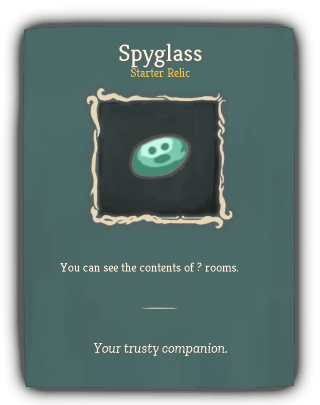
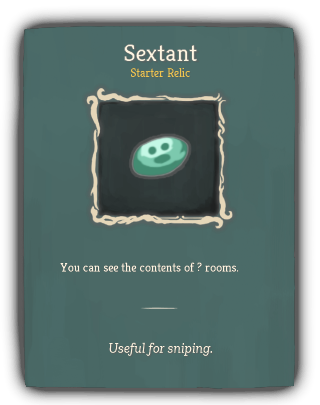
changes!
fixes

Changed region(s): [[0.2812, 0.8296, 0.7188, 0.8889], [0.375, 0.0889, 0.625, 0.1778]]

diff --git a/sleuthMod/index.html b/sleuthMod/index.html
@@ -138,8 +138,9 @@ Deal 12(15) damage.</td>
     <td>1</td>
     <td>Imagination 5.
 Deal 6 damage.
-Shift the enemy's intent ahead 1 turn. 
-(Retain.)</td>
+Shift the enemy's intent ahead 1 turn.
+(Retain.)
+ Exhaust.</td>
   </tr>
   
   <tr>
@@ -646,9 +647,9 @@ Lose 1 Strength if you cannot pay.</td>
   </tr>
   
   <tr>
-    <td>Candy Corn Vampire Form</td>
-    <td><a href="card-images/CandyCornVampireForm.png"><img src="small-card-images/CandyCornVampireForm.png" height="298"></a></td>
-    <td><a href="card-images/CandyCornVampireFormPlus.png"><img src="small-card-images/CandyCornVampireFormPlus.png" height="298"></a></td>
+    <td>Candy Corn Vampire</td>
+    <td><a href="card-images/CandyCornVampire.png"><img src="small-card-images/CandyCornVampire.png" height="298"></a></td>
+    <td><a href="card-images/CandyCornVampirePlus.png"><img src="small-card-images/CandyCornVampirePlus.png" height="298"></a></td>
     <td>Rare</td>
     <td>Power</td>
     <td>2(1)</td>
@@ -696,9 +697,9 @@ The first non-Purge card you play each turn puts a copy of itself on top of your
   </tr>
   
   <tr>
-    <td>Gummy Worm Zombie Form</td>
-    <td><a href="card-images/GummyWormZombieForm.png"><img src="small-card-images/GummyWormZombieForm.png" height="298"></a></td>
-    <td><a href="card-images/GummyWormZombieFormPlus.png"><img src="small-card-images/GummyWormZombieFormPlus.png" height="298"></a></td>
+    <td>Gummy Worm Zombie</td>
+    <td><a href="card-images/GummyWormZombie.png"><img src="small-card-images/GummyWormZombie.png" height="298"></a></td>
+    <td><a href="card-images/GummyWormZombiePlus.png"><img src="small-card-images/GummyWormZombiePlus.png" height="298"></a></td>
     <td>Rare</td>
     <td>Power</td>
     <td>2(1)</td>
@@ -764,8 +765,6 @@ Lose 5 Imagination.</td>
     <td>1</td>
     <td>Pulchritude 16.
 Costs 1 more for every 2 cards in your draw pile.
-Cost can not be modified by other means.
-(not Cost can not be modified by other means.)
 Add a (an upgraded) Jigsaw into your hand.</td>
   </tr>
   
@@ -797,12 +796,12 @@ Add a (an upgraded) Jigsaw into your hand.</td>
   </tr>
   
   <tr>
-    <td><a href="relics/popup/theSleuth-Spyglass.png">Spyglass</a></td>
+    <td><a href="relics/popup/theSleuth-Spyglass.png">Sextant</a></td>
     <td><img src="relics/theSleuth-Spyglass.png" width="128" height="128"><a href="relics/popup/theSleuth-Spyglass.png"><img src="relics/small-popup/theSleuth-Spyglass.png" class="popup"></a></td>
     <td>Starter</td>
     <td>Sleuth_gray_color</td>
     <td>You can see the contents of ? rooms.</td>
-    <td>Your trusty companion.</td>
+    <td>Useful for sniping.</td>
   </tr>
   
 </table>

diff --git a/sleuthMod/cards.html b/sleuthMod/cards.html
@@ -137,8 +137,9 @@ Deal 12(15) damage.</td>
     <td>1</td>
     <td>Imagination 5.
 Deal 6 damage.
-Shift the enemy's intent ahead 1 turn. 
-(Retain.)</td>
+Shift the enemy's intent ahead 1 turn.
+(Retain.)
+ Exhaust.</td>
   </tr>
   
   <tr>
@@ -645,9 +646,9 @@ Lose 1 Strength if you cannot pay.</td>
   </tr>
   
   <tr>
-    <td>Candy Corn Vampire Form</td>
-    <td><a href="card-images/CandyCornVampireForm.png"><img src="small-card-images/CandyCornVampireForm.png" height="298"></a></td>
-    <td><a href="card-images/CandyCornVampireFormPlus.png"><img src="small-card-images/CandyCornVampireFormPlus.png" height="298"></a></td>
+    <td>Candy Corn Vampire</td>
+    <td><a href="card-images/CandyCornVampire.png"><img src="small-card-images/CandyCornVampire.png" height="298"></a></td>
+    <td><a href="card-images/CandyCornVampirePlus.png"><img src="small-card-images/CandyCornVampirePlus.png" height="298"></a></td>
     <td>Rare</td>
     <td>Power</td>
     <td>2(1)</td>
@@ -695,9 +696,9 @@ The first non-Purge card you play each turn puts a copy of itself on top of your
   </tr>
   
   <tr>
-    <td>Gummy Worm Zombie Form</td>
-    <td><a href="card-images/GummyWormZombieForm.png"><img src="small-card-images/GummyWormZombieForm.png" height="298"></a></td>
-    <td><a href="card-images/GummyWormZombieFormPlus.png"><img src="small-card-images/GummyWormZombieFormPlus.png" height="298"></a></td>
+    <td>Gummy Worm Zombie</td>
+    <td><a href="card-images/GummyWormZombie.png"><img src="small-card-images/GummyWormZombie.png" height="298"></a></td>
+    <td><a href="card-images/GummyWormZombiePlus.png"><img src="small-card-images/GummyWormZombiePlus.png" height="298"></a></td>
     <td>Rare</td>
     <td>Power</td>
     <td>2(1)</td>
@@ -763,8 +764,6 @@ Lose 5 Imagination.</td>
     <td>1</td>
     <td>Pulchritude 16.
 Costs 1 more for every 2 cards in your draw pile.
-Cost can not be modified by other means.
-(not Cost can not be modified by other means.)
 Add a (an upgraded) Jigsaw into your hand.</td>
   </tr>
   

diff --git a/sleuthMod/relics.html b/sleuthMod/relics.html
@@ -30,12 +30,12 @@
   </tr>
   
   <tr>
-    <td><a href="relics/popup/theSleuth-Spyglass.png">Spyglass</a></td>
+    <td><a href="relics/popup/theSleuth-Spyglass.png">Sextant</a></td>
     <td><img src="relics/theSleuth-Spyglass.png" width="128" height="128"><a href="relics/popup/theSleuth-Spyglass.png"><img src="relics/small-popup/theSleuth-Spyglass.png" class="popup"></a></td>
     <td>Starter</td>
     <td>Sleuth_gray_color</td>
     <td>You can see the contents of ? rooms.</td>
-    <td>Your trusty companion.</td>
+    <td>Useful for sniping.</td>
   </tr>
   
 </table>

diff --git a/sleuthMod/index.md b/sleuthMod/index.md
@@ -13,7 +13,7 @@
 | Belly O' The Whale | ![](small-card-images/BellyOTheWhale.png) | ![](small-card-images/BellyOTheWhalePlus.png) | Common | Attack | 1 | Vim 10. Deal 10(12) damage. Exhaust a random (not random)card in your discard pile. |
 | Candy Corn | ![](small-card-images/CandyCorn.png) | ![](small-card-images/CandyCornPlus.png) | Common | Skill | 1 | If this is in your hand at the end of your turn, gain 3(5) Block. |
 | Charisma Blast | ![](small-card-images/CharismaBlast.png) | ![](small-card-images/CharismaBlastPlus.png) | Common | Attack | 1 | Pulchritude 12. Deal 12(15) damage. |
-| Disconcerting Ogle | ![](small-card-images/DisconcertingOgle.png) | ![](small-card-images/DisconcertingOglePlus.png) | Common | Attack | 1 | Imagination 5. Deal 6 damage. Shift the enemy's intent ahead 1 turn.  (Retain.) |
+| Disconcerting Ogle | ![](small-card-images/DisconcertingOgle.png) | ![](small-card-images/DisconcertingOglePlus.png) | Common | Attack | 1 | Imagination 5. Deal 6 damage. Shift the enemy's intent ahead 1 turn. (Retain.)  Exhaust. |
 | Flask of Whiskey | ![](small-card-images/FlaskofWhiskey.png) | ![](small-card-images/FlaskofWhiskeyPlus.png) | Common | Skill | 1 | Imagination 5. Gain 1 Imagination. Give a random (not random)card in your hand Retain for the rest of combat. Purge. |
 | Flesh Mural | ![](small-card-images/FleshMural.png) | ![](small-card-images/FleshMuralPlus.png) | Common | Skill | 1 | Vim 5. Gain 8 Temporary HP. Shuffle a Wound (Mural) into your draw pile. |
 | Fortify | ![](small-card-images/Fortify.png) | ![](small-card-images/FortifyPlus.png) | Common | Skill | 1 | Gain 4(5) Temporary Imagination. Gain 5(7) Block. Put a card from your hand on top of your draw pile. |
@@ -55,16 +55,16 @@
 | Brass Tacks | ![](small-card-images/BrassTacks.png) | ![](small-card-images/BrassTacksPlus.png) | Rare | Attack | 2 | Pulchritude 15. Deal 14(17) damage to ALL enemies. Discard your hand, then draw that many cards. |
 | Burn Fat | ![](small-card-images/BurnFat.png) | ![](small-card-images/BurnFatPlus.png) | Rare | Skill | X | Lose X Vim. Gain 4(5) Temporary HP for each Vim lost. |
 | Candid Bullets | ![](small-card-images/CandidBullets.png) | ![](small-card-images/CandidBulletsPlus.png) | Rare | Power | 2(1) | Imagination 5. Gain 3 Strength. Whenever you play an Attack, lose 1 Imagination. Lose 1 Strength if you cannot pay. |
-| Candy Corn Vampire Form | ![](small-card-images/CandyCornVampireForm.png) | ![](small-card-images/CandyCornVampireFormPlus.png) | Rare | Power | 2(1) | Pulchritude 15. Imagination 15. Gain 5 Malleable. You cannot gain Malleable for the rest of the combat. |
+| Candy Corn Vampire | ![](small-card-images/CandyCornVampire.png) | ![](small-card-images/CandyCornVampirePlus.png) | Rare | Power | 2(1) | Pulchritude 15. Imagination 15. Gain 5 Malleable. You cannot gain Malleable for the rest of the combat. |
 | Candy Mech | ![](small-card-images/CandyMech.png) | ![](small-card-images/CandyMechPlus.png) | Rare | Attack | 2 | Imagination 15. Gain 15(17) Block. Deal 15(17) damage. Lose 3(2) Imagination. |
 | Ceasefire | ![](small-card-images/Ceasefire.png) | ![](small-card-images/CeasefirePlus.png) | Rare | Power | 2 | Pulchritude 15. You and ALL enemies gain 2 Intangible. You cannot gain Intangible for the rest of the combat.  (Retain.) |
 | Double Take | ![](small-card-images/DoubleTake.png) | ![](small-card-images/DoubleTakePlus.png) | Rare | Power | 2(1) | Imagination 13. The first non-Purge card you play each turn puts a copy of itself on top of your draw pile. |
-| Gummy Worm Zombie Form | ![](small-card-images/GummyWormZombieForm.png) | ![](small-card-images/GummyWormZombieFormPlus.png) | Rare | Power | 2(1) | Pulchritude 15. Vim 15. At the end of your turn, gain 1 Block for each card in your hand. |
+| Gummy Worm Zombie | ![](small-card-images/GummyWormZombie.png) | ![](small-card-images/GummyWormZombiePlus.png) | Rare | Power | 2(1) | Pulchritude 15. Vim 15. At the end of your turn, gain 1 Block for each card in your hand. |
 | Hairpin/Machinegun | ![](small-card-images/HairpinMachinegun.png) | ![](small-card-images/HairpinMachinegunPlus.png) | Rare | Attack | 1 | Gain 15(18) Block / Deal 15(18) damage. Switches form whenever played. |
 | Roll Boxcars | ![](small-card-images/RollBoxcars.png) | ![](small-card-images/RollBoxcarsPlus.png) | Rare | Skill | 1(0) | Add any 1 of the 4 Midnight Cards to your hand. Exhaust. |
 | Successful Parry | ![](small-card-images/SuccessfulParry.png) | ![](small-card-images/SuccessfulParryPlus.png) | Rare | Skill | 3(2) | Vim 1. You cannot have Block this turn. Gain Temporary HP equal to your Vim. Gain 1 Auto-Parry. Purge. |
 | The Zillyhammer | ![](small-card-images/TheZillyhammer.png) | ![](small-card-images/TheZillyhammerPlus.png) | Rare | Attack | 2 | Imagination 20. Deal 25(33) damage to ALL enemies. Lose 5 Imagination. |
-| Weird Puzzle Shit | ![](small-card-images/WeirdPuzzleShit.png) | ![](small-card-images/WeirdPuzzleShitPlus.png) | Rare | Skill | 1 | Pulchritude 16. Costs 1 more for every 2 cards in your draw pile. Cost can not be modified by other means. (not Cost can not be modified by other means.) Add a (an upgraded) Jigsaw into your hand. |
+| Weird Puzzle Shit | ![](small-card-images/WeirdPuzzleShit.png) | ![](small-card-images/WeirdPuzzleShitPlus.png) | Rare | Skill | 1 | Pulchritude 16. Costs 1 more for every 2 cards in your draw pile. Add a (an upgraded) Jigsaw into your hand. |
 
 
 
@@ -84,7 +84,7 @@
 | Image | Name | Rarity | Color | Description | Flavor |
 | ----- | ---- | ------ | ----- | ----------- | ------ |
 | ![](relics/theSleuth-PenAndPaper.png) | Pen and Paper | Starter | Sleuth_gray_color | Stores your statistics. NL #yPulchritude: #b0 NL #yVim: #b0 NL #yImagination: #b0 | For statistical purposes. |
-| ![](relics/theSleuth-Spyglass.png) | Spyglass | Starter | Sleuth_gray_color | You can see the contents of ? rooms. | Your trusty companion. |
+| ![](relics/theSleuth-Spyglass.png) | Sextant | Starter | Sleuth_gray_color | You can see the contents of ? rooms. | Useful for sniping. |
 
 
 

diff --git a/sleuthMod/cards.md b/sleuthMod/cards.md
@@ -10,7 +10,7 @@
 | Belly O' The Whale | ![](small-card-images/BellyOTheWhale.png) | ![](small-card-images/BellyOTheWhalePlus.png) | Common | Attack | 1 | Vim 10. Deal 10(12) damage. Exhaust a random (not random)card in your discard pile. |
 | Candy Corn | ![](small-card-images/CandyCorn.png) | ![](small-card-images/CandyCornPlus.png) | Common | Skill | 1 | If this is in your hand at the end of your turn, gain 3(5) Block. |
 | Charisma Blast | ![](small-card-images/CharismaBlast.png) | ![](small-card-images/CharismaBlastPlus.png) | Common | Attack | 1 | Pulchritude 12. Deal 12(15) damage. |
-| Disconcerting Ogle | ![](small-card-images/DisconcertingOgle.png) | ![](small-card-images/DisconcertingOglePlus.png) | Common | Attack | 1 | Imagination 5. Deal 6 damage. Shift the enemy's intent ahead 1 turn.  (Retain.) |
+| Disconcerting Ogle | ![](small-card-images/DisconcertingOgle.png) | ![](small-card-images/DisconcertingOglePlus.png) | Common | Attack | 1 | Imagination 5. Deal 6 damage. Shift the enemy's intent ahead 1 turn. (Retain.)  Exhaust. |
 | Flask of Whiskey | ![](small-card-images/FlaskofWhiskey.png) | ![](small-card-images/FlaskofWhiskeyPlus.png) | Common | Skill | 1 | Imagination 5. Gain 1 Imagination. Give a random (not random)card in your hand Retain for the rest of combat. Purge. |
 | Flesh Mural | ![](small-card-images/FleshMural.png) | ![](small-card-images/FleshMuralPlus.png) | Common | Skill | 1 | Vim 5. Gain 8 Temporary HP. Shuffle a Wound (Mural) into your draw pile. |
 | Fortify | ![](small-card-images/Fortify.png) | ![](small-card-images/FortifyPlus.png) | Common | Skill | 1 | Gain 4(5) Temporary Imagination. Gain 5(7) Block. Put a card from your hand on top of your draw pile. |
@@ -52,13 +52,13 @@
 | Brass Tacks | ![](small-card-images/BrassTacks.png) | ![](small-card-images/BrassTacksPlus.png) | Rare | Attack | 2 | Pulchritude 15. Deal 14(17) damage to ALL enemies. Discard your hand, then draw that many cards. |
 | Burn Fat | ![](small-card-images/BurnFat.png) | ![](small-card-images/BurnFatPlus.png) | Rare | Skill | X | Lose X Vim. Gain 4(5) Temporary HP for each Vim lost. |
 | Candid Bullets | ![](small-card-images/CandidBullets.png) | ![](small-card-images/CandidBulletsPlus.png) | Rare | Power | 2(1) | Imagination 5. Gain 3 Strength. Whenever you play an Attack, lose 1 Imagination. Lose 1 Strength if you cannot pay. |
-| Candy Corn Vampire Form | ![](small-card-images/CandyCornVampireForm.png) | ![](small-card-images/CandyCornVampireFormPlus.png) | Rare | Power | 2(1) | Pulchritude 15. Imagination 15. Gain 5 Malleable. You cannot gain Malleable for the rest of the combat. |
+| Candy Corn Vampire | ![](small-card-images/CandyCornVampire.png) | ![](small-card-images/CandyCornVampirePlus.png) | Rare | Power | 2(1) | Pulchritude 15. Imagination 15. Gain 5 Malleable. You cannot gain Malleable for the rest of the combat. |
 | Candy Mech | ![](small-card-images/CandyMech.png) | ![](small-card-images/CandyMechPlus.png) | Rare | Attack | 2 | Imagination 15. Gain 15(17) Block. Deal 15(17) damage. Lose 3(2) Imagination. |
 | Ceasefire | ![](small-card-images/Ceasefire.png) | ![](small-card-images/CeasefirePlus.png) | Rare | Power | 2 | Pulchritude 15. You and ALL enemies gain 2 Intangible. You cannot gain Intangible for the rest of the combat.  (Retain.) |
 | Double Take | ![](small-card-images/DoubleTake.png) | ![](small-card-images/DoubleTakePlus.png) | Rare | Power | 2(1) | Imagination 13. The first non-Purge card you play each turn puts a copy of itself on top of your draw pile. |
-| Gummy Worm Zombie Form | ![](small-card-images/GummyWormZombieForm.png) | ![](small-card-images/GummyWormZombieFormPlus.png) | Rare | Power | 2(1) | Pulchritude 15. Vim 15. At the end of your turn, gain 1 Block for each card in your hand. |
+| Gummy Worm Zombie | ![](small-card-images/GummyWormZombie.png) | ![](small-card-images/GummyWormZombiePlus.png) | Rare | Power | 2(1) | Pulchritude 15. Vim 15. At the end of your turn, gain 1 Block for each card in your hand. |
 | Hairpin/Machinegun | ![](small-card-images/HairpinMachinegun.png) | ![](small-card-images/HairpinMachinegunPlus.png) | Rare | Attack | 1 | Gain 15(18) Block / Deal 15(18) damage. Switches form whenever played. |
 | Roll Boxcars | ![](small-card-images/RollBoxcars.png) | ![](small-card-images/RollBoxcarsPlus.png) | Rare | Skill | 1(0) | Add any 1 of the 4 Midnight Cards to your hand. Exhaust. |
 | Successful Parry | ![](small-card-images/SuccessfulParry.png) | ![](small-card-images/SuccessfulParryPlus.png) | Rare | Skill | 3(2) | Vim 1. You cannot have Block this turn. Gain Temporary HP equal to your Vim. Gain 1 Auto-Parry. Purge. |
 | The Zillyhammer | ![](small-card-images/TheZillyhammer.png) | ![](small-card-images/TheZillyhammerPlus.png) | Rare | Attack | 2 | Imagination 20. Deal 25(33) damage to ALL enemies. Lose 5 Imagination. |
-| Weird Puzzle Shit | ![](small-card-images/WeirdPuzzleShit.png) | ![](small-card-images/WeirdPuzzleShitPlus.png) | Rare | Skill | 1 | Pulchritude 16. Costs 1 more for every 2 cards in your draw pile. Cost can not be modified by other means. (not Cost can not be modified by other means.) Add a (an upgraded) Jigsaw into your hand. |
+| Weird Puzzle Shit | ![](small-card-images/WeirdPuzzleShit.png) | ![](small-card-images/WeirdPuzzleShitPlus.png) | Rare | Skill | 1 | Pulchritude 16. Costs 1 more for every 2 cards in your draw pile. Add a (an upgraded) Jigsaw into your hand. |

diff --git a/sleuthMod/relics.md b/sleuthMod/relics.md
@@ -1,4 +1,4 @@
 | Image | Name | Rarity | Color | Description | Flavor |
 | ----- | ---- | ------ | ----- | ----------- | ------ |
 | ![](relics/theSleuth-PenAndPaper.png) | Pen and Paper | Starter | Sleuth_gray_color | Stores your statistics. NL #yPulchritude: #b0 NL #yVim: #b0 NL #yImagination: #b0 | For statistical purposes. |
-| ![](relics/theSleuth-Spyglass.png) | Spyglass | Starter | Sleuth_gray_color | You can see the contents of ? rooms. | Your trusty companion. |
+| ![](relics/theSleuth-Spyglass.png) | Sextant | Starter | Sleuth_gray_color | You can see the contents of ? rooms. | Useful for sniping. |
